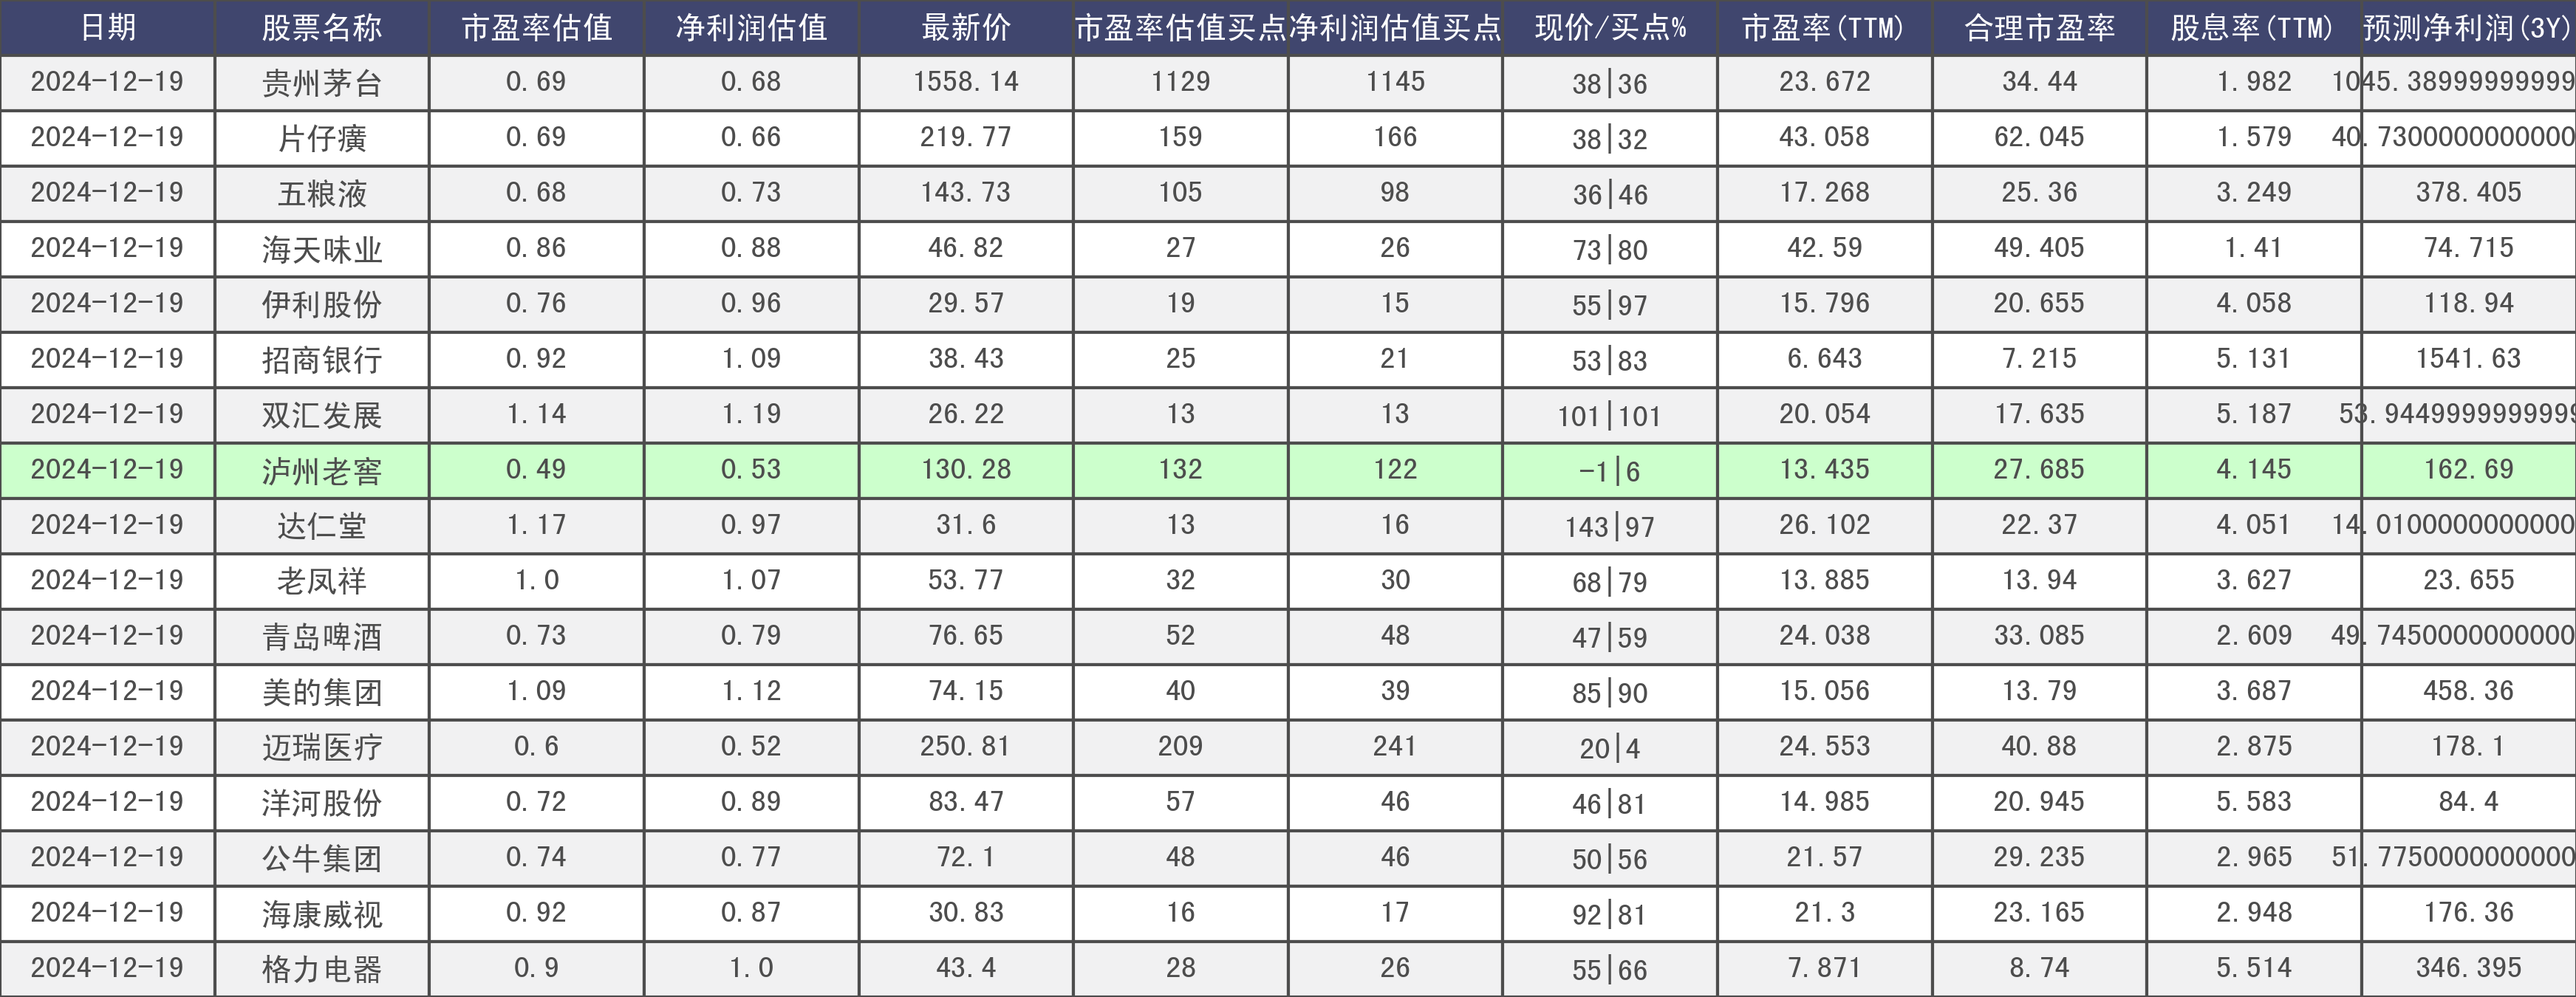
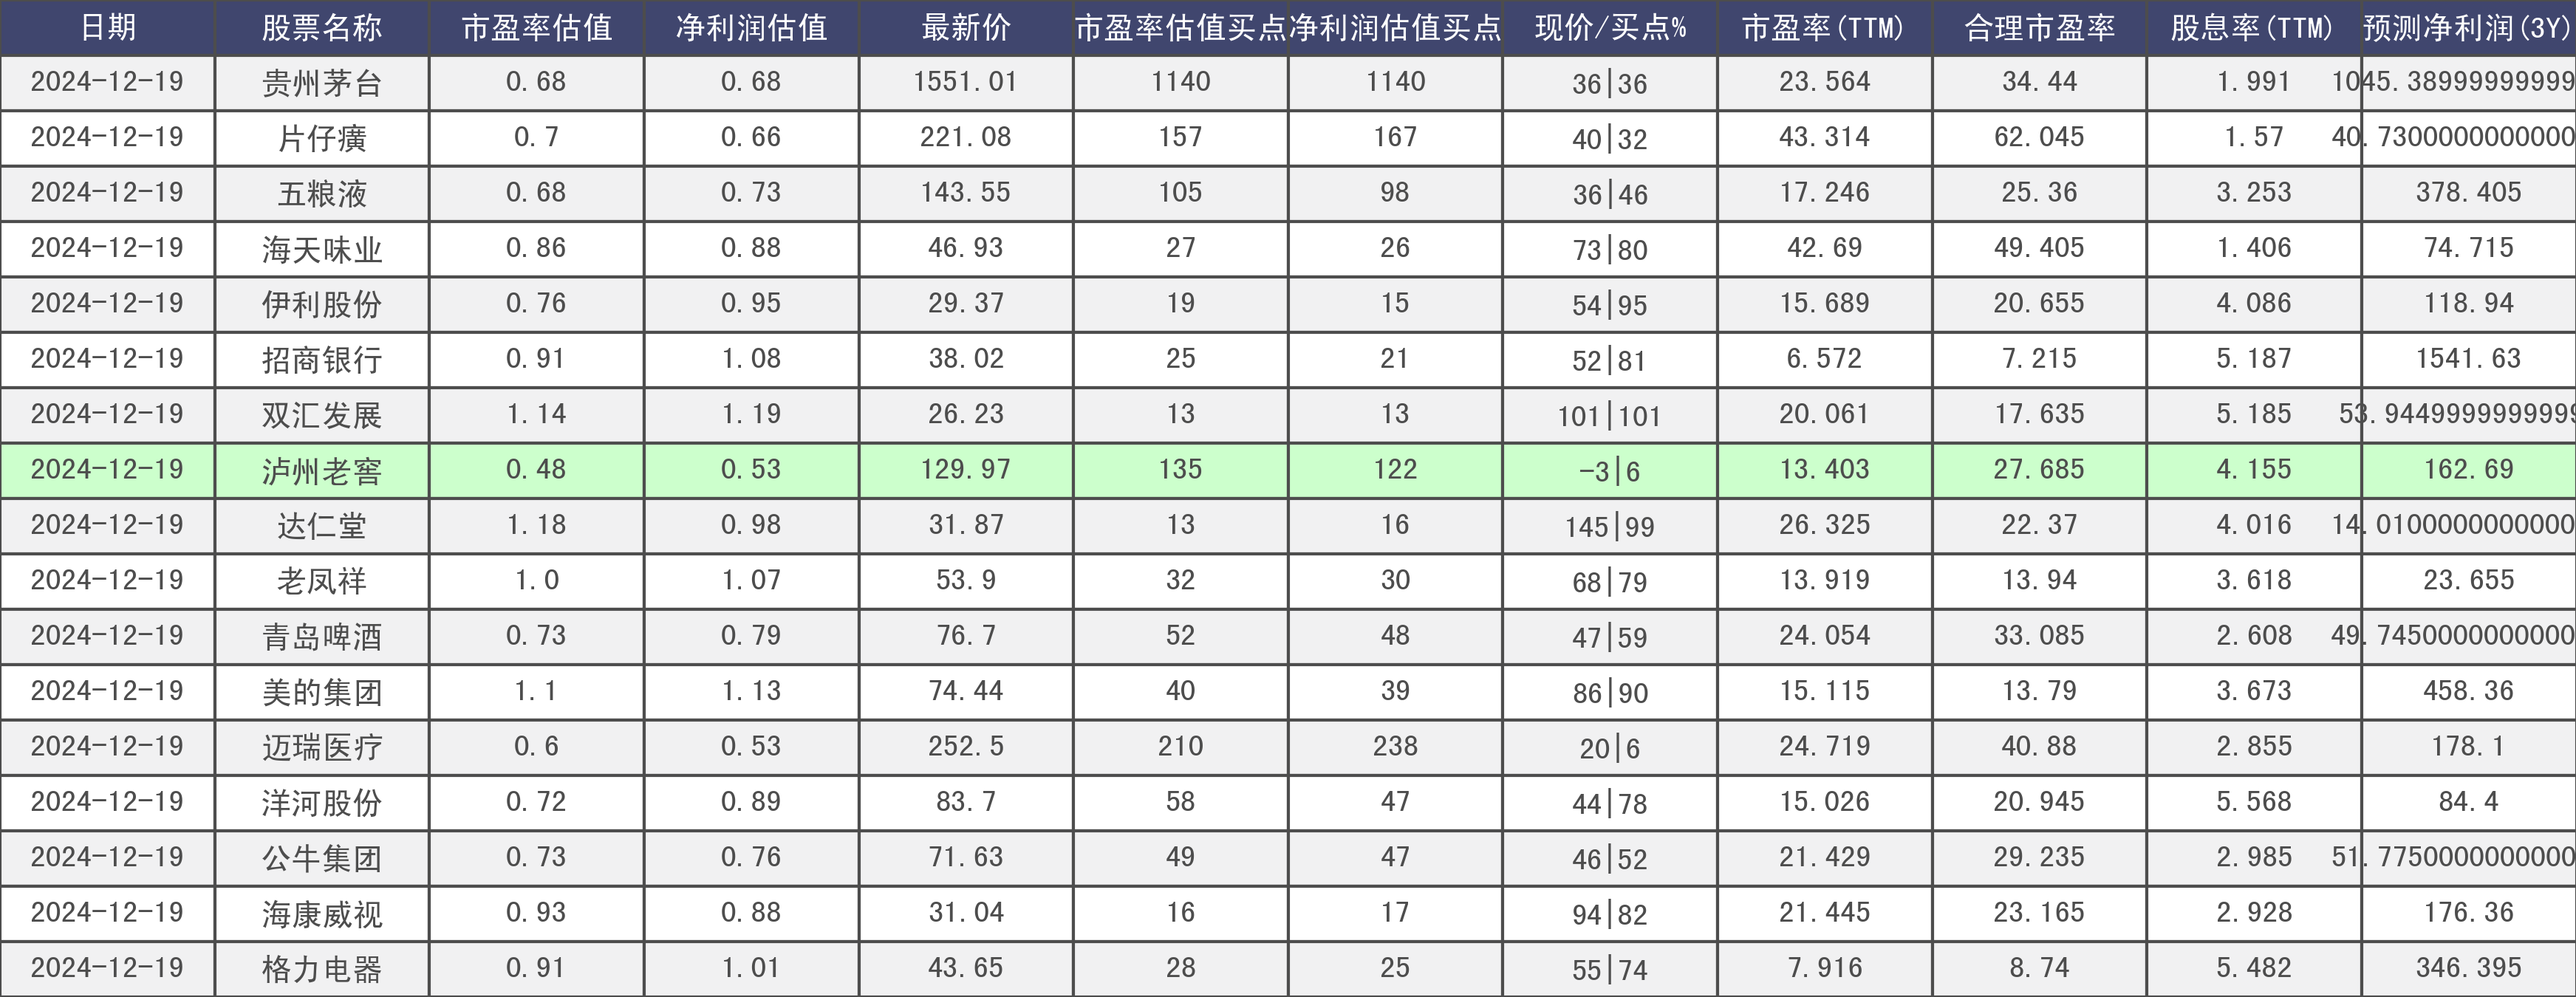
action:2024-12-19T16:30:50

diff --git a/index.html b/index.html
@@ -28,29 +28,29 @@
     <tr>
       <td>2024-12-19</td>
       <td>贵州茅台</td>
-      <td>0.69</td>
       <td>0.68</td>
-      <td>1558.14</td>
-      <td>1129</td>
-      <td>1145</td>
-      <td>38|36</td>
-      <td>23.672</td>
+      <td>0.68</td>
+      <td>1551.01</td>
+      <td>1140</td>
+      <td>1140</td>
+      <td>36|36</td>
+      <td>23.564</td>
       <td>34.440</td>
-      <td>1.982</td>
+      <td>1.991</td>
       <td>1045.390</td>
     </tr>
     <tr>
       <td>2024-12-19</td>
       <td>片仔癀</td>
-      <td>0.69</td>
+      <td>0.70</td>
       <td>0.66</td>
-      <td>219.77</td>
-      <td>159</td>
-      <td>166</td>
-      <td>38|32</td>
-      <td>43.058</td>
+      <td>221.08</td>
+      <td>157</td>
+      <td>167</td>
+      <td>40|32</td>
+      <td>43.314</td>
       <td>62.045</td>
-      <td>1.579</td>
+      <td>1.570</td>
       <td>40.730</td>
     </tr>
     <tr>
@@ -58,13 +58,13 @@
       <td>五粮液</td>
       <td>0.68</td>
       <td>0.73</td>
-      <td>143.73</td>
+      <td>143.55</td>
       <td>105</td>
       <td>98</td>
       <td>36|46</td>
-      <td>17.268</td>
+      <td>17.246</td>
       <td>25.360</td>
-      <td>3.249</td>
+      <td>3.253</td>
       <td>378.405</td>
     </tr>
     <tr>
@@ -72,41 +72,41 @@
       <td>海天味业</td>
       <td>0.86</td>
       <td>0.88</td>
-      <td>46.82</td>
+      <td>46.93</td>
       <td>27</td>
       <td>26</td>
       <td>73|80</td>
-      <td>42.590</td>
+      <td>42.690</td>
       <td>49.405</td>
-      <td>1.410</td>
+      <td>1.406</td>
       <td>74.715</td>
     </tr>
     <tr>
       <td>2024-12-19</td>
       <td>伊利股份</td>
       <td>0.76</td>
-      <td>0.96</td>
-      <td>29.57</td>
+      <td>0.95</td>
+      <td>29.37</td>
       <td>19</td>
       <td>15</td>
-      <td>55|97</td>
-      <td>15.796</td>
+      <td>54|95</td>
+      <td>15.689</td>
       <td>20.655</td>
-      <td>4.058</td>
+      <td>4.086</td>
       <td>118.940</td>
     </tr>
     <tr>
       <td>2024-12-19</td>
       <td>招商银行</td>
-      <td>0.92</td>
-      <td>1.09</td>
-      <td>38.43</td>
+      <td>0.91</td>
+      <td>1.08</td>
+      <td>38.02</td>
       <td>25</td>
       <td>21</td>
-      <td>53|83</td>
-      <td>6.643</td>
+      <td>52|81</td>
+      <td>6.572</td>
       <td>7.215</td>
-      <td>5.131</td>
+      <td>5.187</td>
       <td>1541.630</td>
     </tr>
     <tr>
@@ -114,41 +114,41 @@
       <td>双汇发展</td>
       <td>1.14</td>
       <td>1.19</td>
-      <td>26.22</td>
+      <td>26.23</td>
       <td>13</td>
       <td>13</td>
       <td>101|101</td>
-      <td>20.054</td>
+      <td>20.061</td>
       <td>17.635</td>
-      <td>5.187</td>
+      <td>5.185</td>
       <td>53.945</td>
     </tr>
     <tr>
       <td>2024-12-19</td>
       <td>泸州老窖</td>
-      <td>0.49</td>
+      <td>0.48</td>
       <td>0.53</td>
-      <td>130.28</td>
-      <td>132</td>
+      <td>129.97</td>
+      <td>135</td>
       <td>122</td>
-      <td>-1|6</td>
-      <td>13.435</td>
+      <td>-3|6</td>
+      <td>13.403</td>
       <td>27.685</td>
-      <td>4.145</td>
+      <td>4.155</td>
       <td>162.690</td>
     </tr>
     <tr>
       <td>2024-12-19</td>
       <td>达仁堂</td>
-      <td>1.17</td>
-      <td>0.97</td>
-      <td>31.60</td>
+      <td>1.18</td>
+      <td>0.98</td>
+      <td>31.87</td>
       <td>13</td>
       <td>16</td>
-      <td>143|97</td>
-      <td>26.102</td>
+      <td>145|99</td>
+      <td>26.325</td>
       <td>22.370</td>
-      <td>4.051</td>
+      <td>4.016</td>
       <td>14.010</td>
     </tr>
     <tr>
@@ -156,13 +156,13 @@
       <td>老凤祥</td>
       <td>1.00</td>
       <td>1.07</td>
-      <td>53.77</td>
+      <td>53.90</td>
       <td>32</td>
       <td>30</td>
       <td>68|79</td>
-      <td>13.885</td>
+      <td>13.919</td>
       <td>13.940</td>
-      <td>3.627</td>
+      <td>3.618</td>
       <td>23.655</td>
     </tr>
     <tr>
@@ -170,41 +170,41 @@
       <td>青岛啤酒</td>
       <td>0.73</td>
       <td>0.79</td>
-      <td>76.65</td>
+      <td>76.70</td>
       <td>52</td>
       <td>48</td>
       <td>47|59</td>
-      <td>24.038</td>
+      <td>24.054</td>
       <td>33.085</td>
-      <td>2.609</td>
+      <td>2.608</td>
       <td>49.745</td>
     </tr>
     <tr>
       <td>2024-12-19</td>
       <td>美的集团</td>
-      <td>1.09</td>
-      <td>1.12</td>
-      <td>74.15</td>
+      <td>1.10</td>
+      <td>1.13</td>
+      <td>74.44</td>
       <td>40</td>
       <td>39</td>
-      <td>85|90</td>
-      <td>15.056</td>
+      <td>86|90</td>
+      <td>15.115</td>
       <td>13.790</td>
-      <td>3.687</td>
+      <td>3.673</td>
       <td>458.360</td>
     </tr>
     <tr>
       <td>2024-12-19</td>
       <td>迈瑞医疗</td>
       <td>0.60</td>
-      <td>0.52</td>
-      <td>250.81</td>
-      <td>209</td>
-      <td>241</td>
-      <td>20|4</td>
-      <td>24.553</td>
+      <td>0.53</td>
+      <td>252.50</td>
+      <td>210</td>
+      <td>238</td>
+      <td>20|6</td>
+      <td>24.719</td>
       <td>40.880</td>
-      <td>2.875</td>
+      <td>2.855</td>
       <td>178.100</td>
     </tr>
     <tr>
@@ -212,55 +212,55 @@
       <td>洋河股份</td>
       <td>0.72</td>
       <td>0.89</td>
-      <td>83.47</td>
-      <td>57</td>
-      <td>46</td>
-      <td>46|81</td>
-      <td>14.985</td>
+      <td>83.70</td>
+      <td>58</td>
+      <td>47</td>
+      <td>44|78</td>
+      <td>15.026</td>
       <td>20.945</td>
-      <td>5.583</td>
+      <td>5.568</td>
       <td>84.400</td>
     </tr>
     <tr>
       <td>2024-12-19</td>
       <td>公牛集团</td>
-      <td>0.74</td>
-      <td>0.77</td>
-      <td>72.10</td>
-      <td>48</td>
-      <td>46</td>
-      <td>50|56</td>
-      <td>21.570</td>
+      <td>0.73</td>
+      <td>0.76</td>
+      <td>71.63</td>
+      <td>49</td>
+      <td>47</td>
+      <td>46|52</td>
+      <td>21.429</td>
       <td>29.235</td>
-      <td>2.965</td>
+      <td>2.985</td>
       <td>51.775</td>
     </tr>
     <tr>
       <td>2024-12-19</td>
       <td>海康威视</td>
-      <td>0.92</td>
-      <td>0.87</td>
-      <td>30.83</td>
+      <td>0.93</td>
+      <td>0.88</td>
+      <td>31.04</td>
       <td>16</td>
       <td>17</td>
-      <td>92|81</td>
-      <td>21.300</td>
+      <td>94|82</td>
+      <td>21.445</td>
       <td>23.165</td>
-      <td>2.948</td>
+      <td>2.928</td>
       <td>176.360</td>
     </tr>
     <tr>
       <td>2024-12-19</td>
       <td>格力电器</td>
-      <td>0.90</td>
-      <td>1.00</td>
-      <td>43.40</td>
+      <td>0.91</td>
+      <td>1.01</td>
+      <td>43.65</td>
       <td>28</td>
-      <td>26</td>
-      <td>55|66</td>
-      <td>7.871</td>
+      <td>25</td>
+      <td>55|74</td>
+      <td>7.916</td>
       <td>8.740</td>
-      <td>5.514</td>
+      <td>5.482</td>
       <td>346.395</td>
     </tr>
   </tbody>
